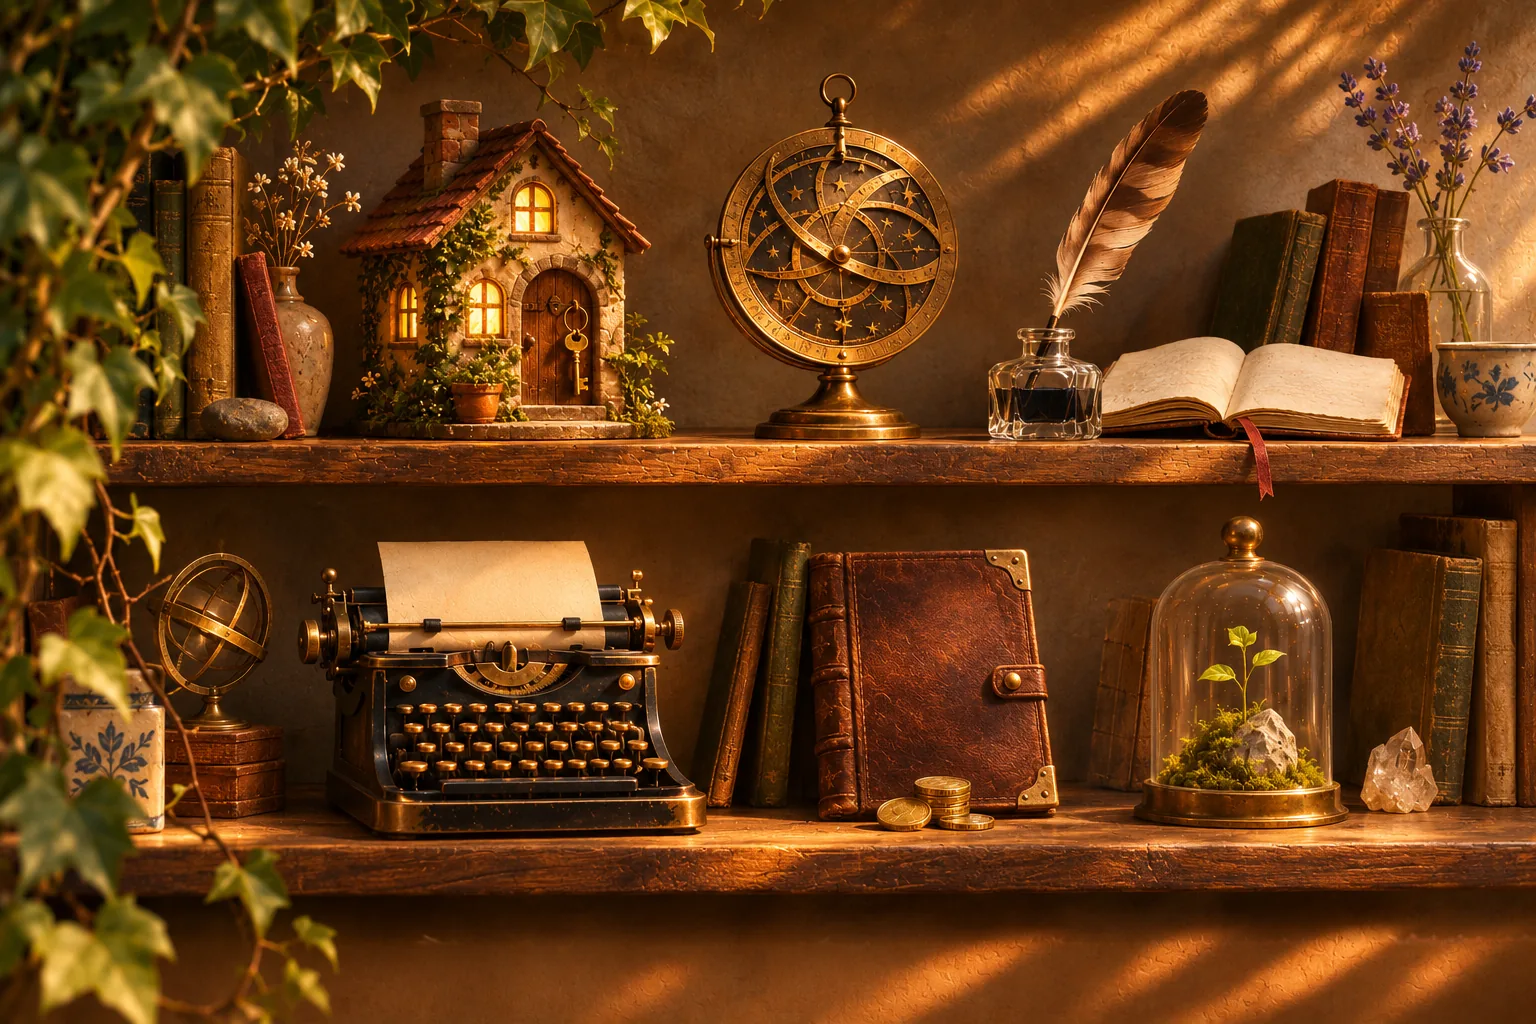
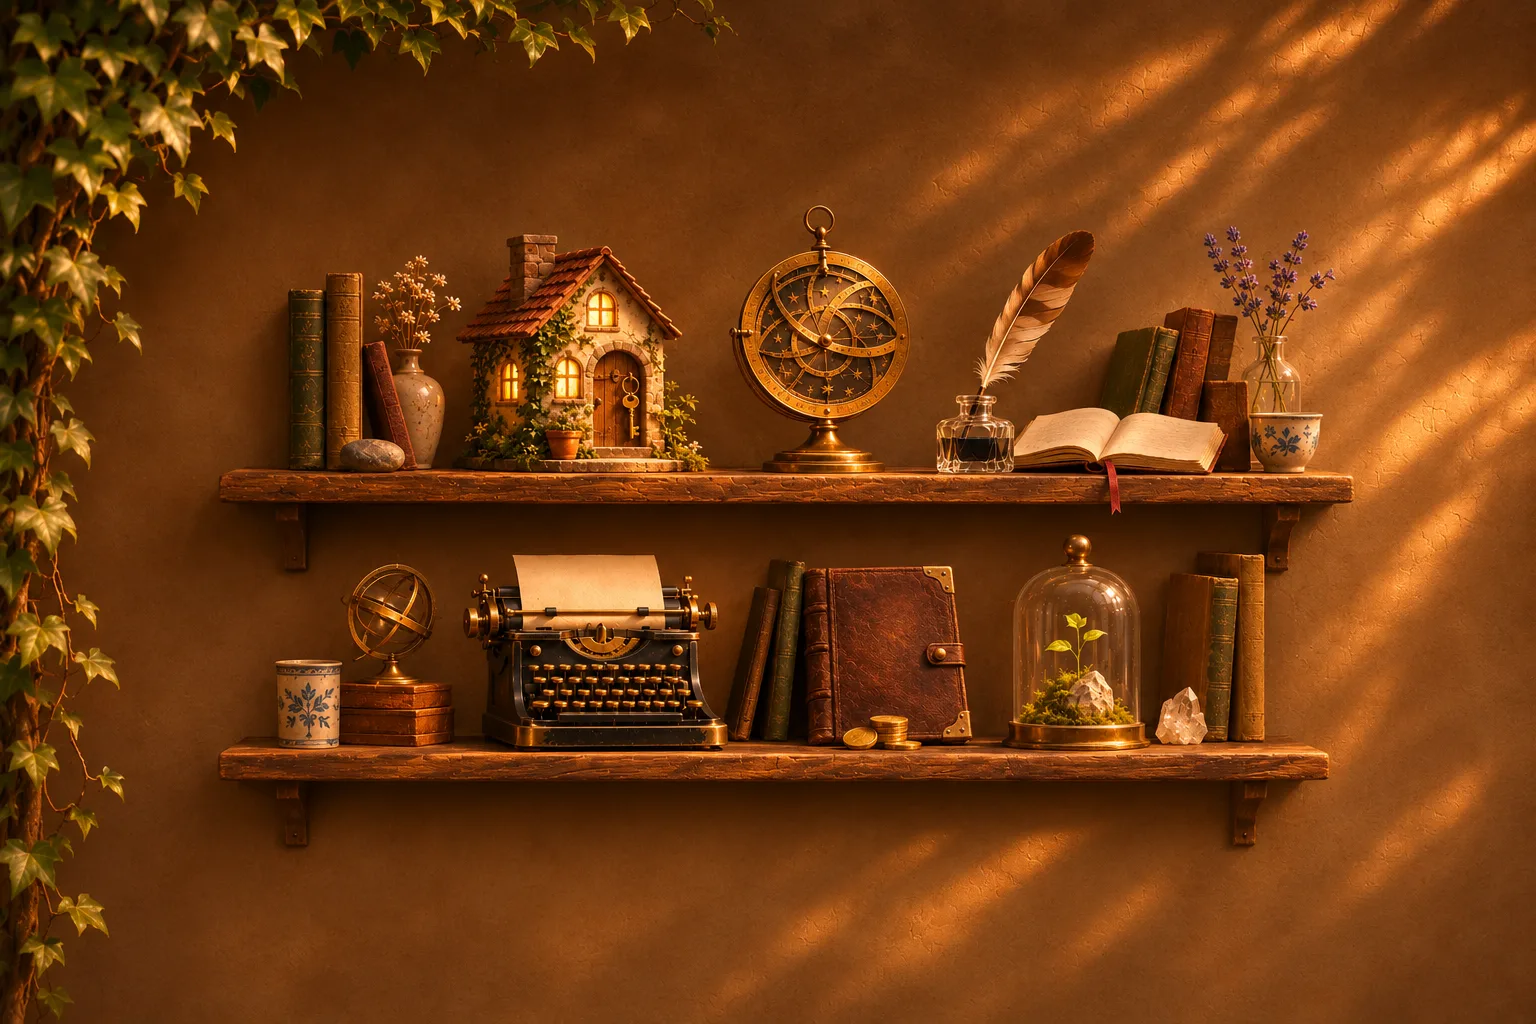
Hub desktop: zoomed-out painting (whole shelf centred, wall around, nothing cut, natural proportions)

diff --git a/index.html b/index.html
@@ -4,7 +4,7 @@
 <meta charset="utf-8">
 <meta name="viewport" content="width=device-width, initial-scale=1, viewport-fit=cover">
 <!-- csp-meta: only this site's own scripts run (refresh with ~/bin/csp-meta after editing an inline script) -->
-<meta http-equiv="Content-Security-Policy" content="default-src 'self'; script-src 'self' 'sha256-0jhIemepSbwkGKSkfuOQUmGis3lmQAN9aJFknhfqSg4=' 'sha256-2IF1OqlYQEsPupU5Mrj3Qv8UhEPG8o6AQ3j7c6CNrDo='; style-src 'self' 'unsafe-inline' https://fonts.googleapis.com; font-src 'self' https://fonts.gstatic.com; img-src 'self' data: blob: https:; media-src 'self' data: blob:; connect-src 'self'; frame-src 'none'; worker-src 'self' blob:; object-src 'none'; base-uri 'self'; form-action 'self'">
+<meta http-equiv="Content-Security-Policy" content="default-src 'self'; script-src 'self' 'sha256-2IF1OqlYQEsPupU5Mrj3Qv8UhEPG8o6AQ3j7c6CNrDo=' 'sha256-qYMD/gzSSwEkTHo6E9xD1PDqWmwOOoLh96CJNaNfsl8='; style-src 'self' 'unsafe-inline' https://fonts.googleapis.com; font-src 'self' https://fonts.gstatic.com; img-src 'self' data: blob: https:; media-src 'self' data: blob:; connect-src 'self'; frame-src 'none'; worker-src 'self' blob:; object-src 'none'; base-uri 'self'; form-action 'self'">
 <title>App do Ivo · Small Apps for a Bigger Life</title>
 <meta name="description" content="Small apps by Ivo Lopes, each one an object on the shelf: Festa, Astro, Quill, Job, Ledger, and more to come.">
 <meta property="og:title" content="App do Ivo · Small Apps for a Bigger Life">
@@ -21,7 +21,7 @@
 <link rel="apple-touch-icon" href="apple-touch-icon.png">
 <meta name="theme-color" content="#2b1b0f">
 <meta name="color-scheme" content="light">
-<link rel="preload" as="image" href="img/scene/shelf-desk.webp?v=4" media="(min-width: 721px)">
+<link rel="preload" as="image" href="img/scene/shelf-desk.webp?v=5" media="(min-width: 721px)">
 <link rel="preload" as="image" href="img/scene/shelf-phone.webp?v=5" media="(max-width: 720px)">
 <link rel="preconnect" href="https://fonts.googleapis.com">
 <link rel="preconnect" href="https://fonts.gstatic.com" crossorigin>
@@ -101,7 +101,8 @@
   a.app.lit::before { opacity: 1; transition-duration: .2s; }
   .label b { font: 700 var(--name)/1.05 "Cormorant Garamond", Georgia, serif; color: #fbeccd; text-shadow: 0 1px 3px rgba(0, 0, 0, .9), 0 0 14px rgba(0, 0, 0, .7); }
   .label span { font-size: var(--small); line-height: 1.15; color: #f0dcb4; text-shadow: 0 1px 3px rgba(0, 0, 0, .9); }
-  .scene.desk .app { --name: 2.2cqw; --small: 1.15cqw; }
+  .scene.desk { --fy: .5; }   /* the zoomed-out painting (2026-11-05): shelves in the middle, wall around */
+  .scene.desk .app { --name: 1.9cqw; --small: 1cqw; }
   .scene.phone .app { --name: 5cqw; --small: 0; }
   .scene.phone .label span { position: absolute; width: 1px; height: 1px; overflow: hidden; clip-path: inset(50%); }   /* phones show the name; the line stays for screen readers */
 
@@ -124,9 +125,9 @@
   // (x, y, w, h). To add an app: ask ChatGPT
   // for the scene with the new object, then measure its box here (?debug shows the boxes).
   const SCENES = {
-    desk: { src: "img/scene/shelf-desk.webp?v=4", w: 1536, h: 1024, apps: {
-      festa: [22.1, 9.8, 20.2, 33.2], astro: [45.9, 7.0, 16.3, 36.0], quill: [64.1, 8.8, 27.7, 34.2, 30],
-      job: [19.5, 52.7, 27.0, 26.2], ledger: [52.4, 53.5, 16.3, 27.5], soon: [73.6, 50.3, 14.0, 29.0] } },
+    desk: { src: "img/scene/shelf-desk.webp?v=5", w: 1536, h: 1024, apps: {
+      festa: [29.6, 22.7, 15.0, 23.2], astro: [47.9, 20.0, 11.7, 26.1], quill: [60.9, 22.5, 19.1, 23.4, 25],
+      job: [30.1, 53.9, 17.3, 19.3], ledger: [52.1, 55.2, 11.2, 18.1], soon: [65.4, 52.1, 9.4, 21.2] } },
     phone: { src: "img/scene/shelf-phone.webp?v=5", w: 1024, h: 1536, apps: {
       festa: [34.2, 14.8, 28.9, 18.7], astro: [63.4, 13.5, 19.5, 20.1], quill: [26.7, 36.8, 33.4, 18.4, 35],
       ledger: [58.3, 40.5, 18.6, 14.7], job: [30.8, 61.2, 29.0, 16.6], soon: [62.3, 59.5, 17.0, 18.3] } },
